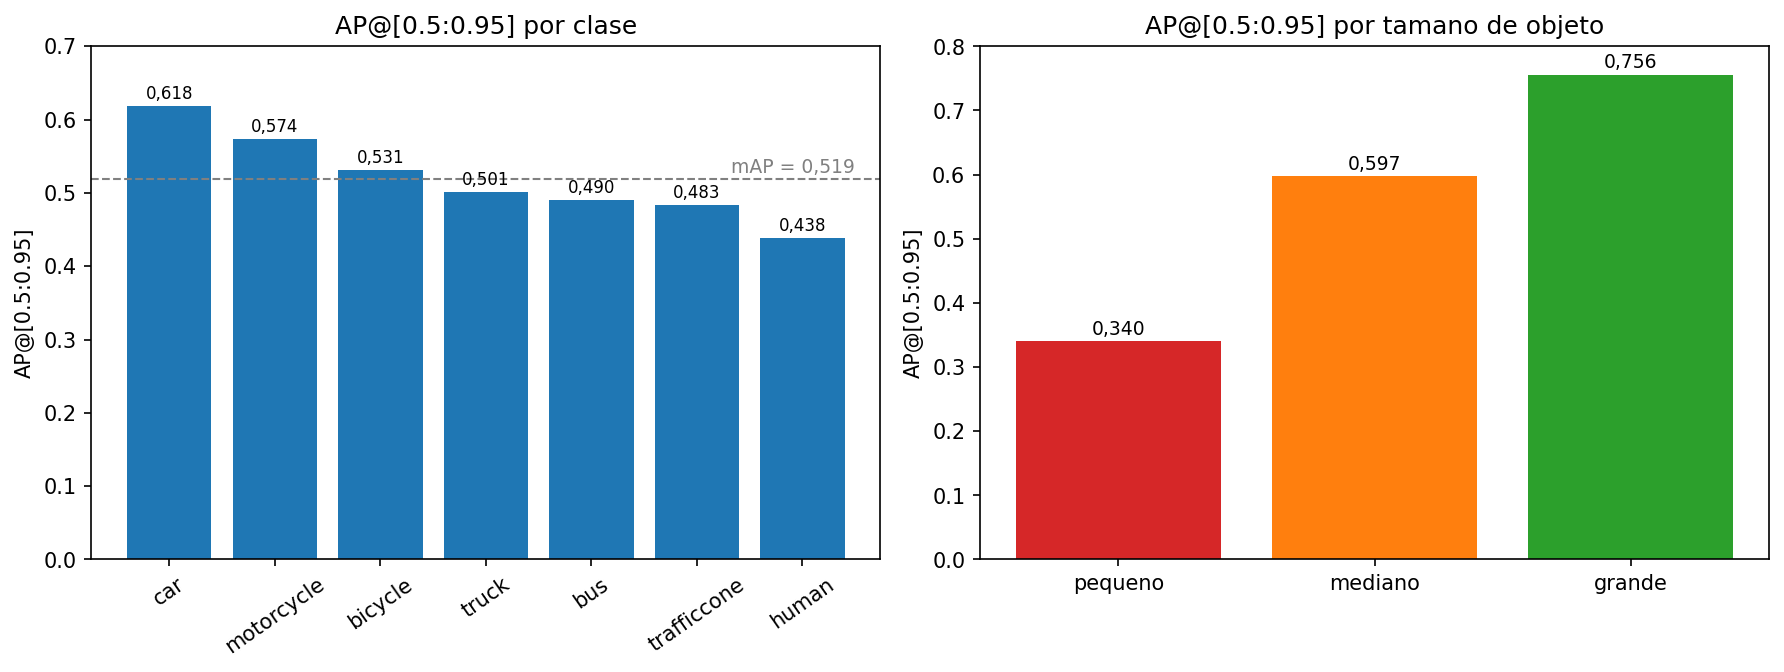
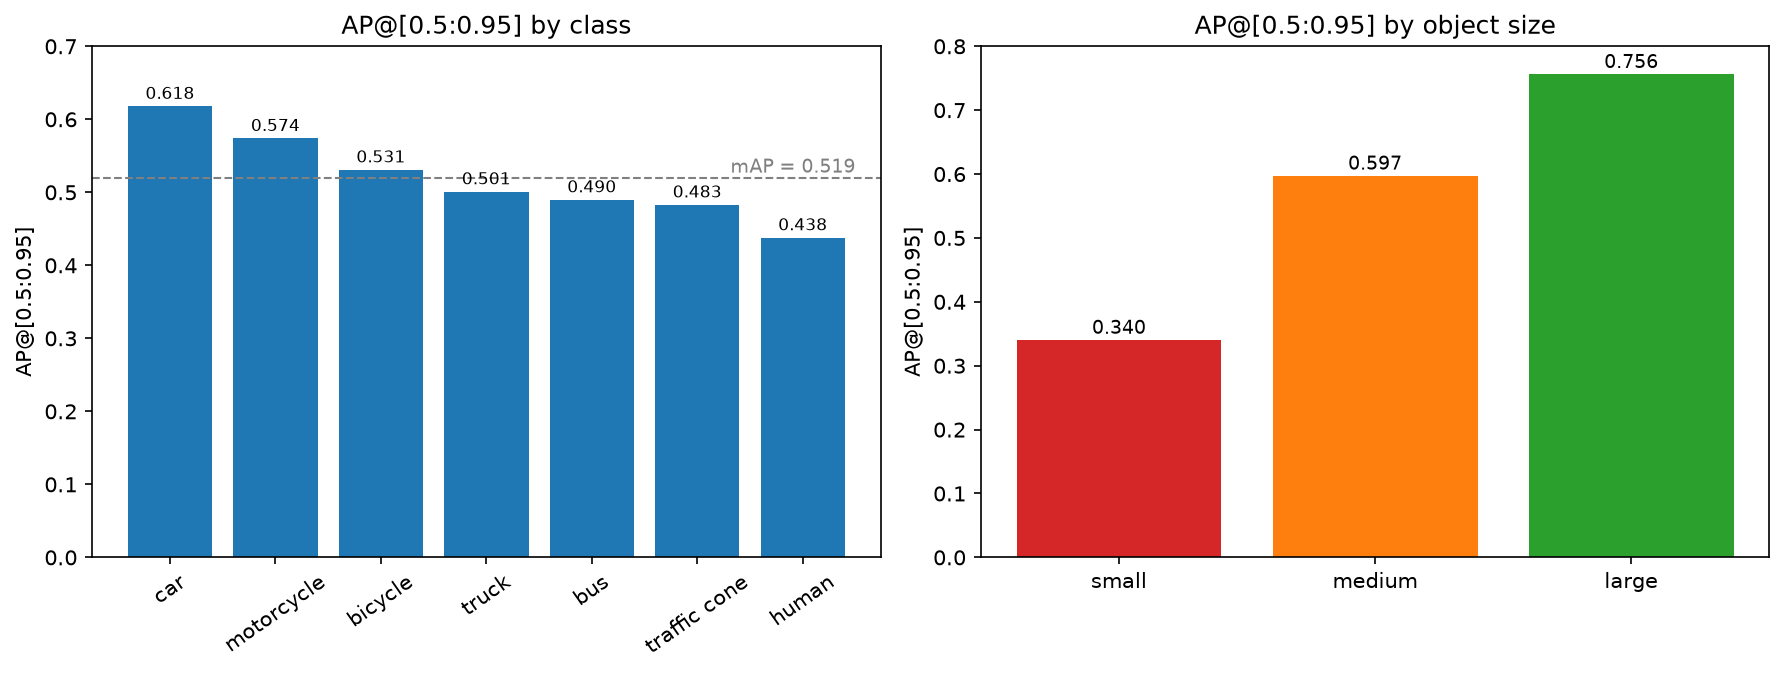
Regenerate evaluation figures in English

diff --git a/src/plot_ap_by_class_and_size.py b/src/plot_ap_by_class_and_size.py
@@ -1,43 +1,71 @@
 """
-Genera fig_ap_clase_tamano.png a partir de los valores de AP de tus tablas
-(validacion). No usa datos externos: solo los numeros que ya reportas.
-Ejecutar:  python generar_fig_ap_clase_tamano.py
-Guarda la figura en la carpeta actual; copiala luego a memoria_figs/.
+Generates the evaluation figures from the reported validation metrics.
+
+- ap_by_class_and_size.png: AP@[0.5:0.95] per class and per object size (COCO evaluation)
+- class_balance.png: number of annotated instances per class (full dataset)
+
+Run:  python src/plot_ap_by_class_and_size.py
 """
-import numpy as np
+from pathlib import Path
+
 import matplotlib.pyplot as plt
- 
-# AP@[0.5:0.95] por clase (de tu tabla de AP por clase, validacion)
-clases = ['car', 'motorcycle', 'bicycle', 'truck', 'trafficcone', 'bus', 'human']
-ap     = [0.618,  0.574,        0.531,     0.501,   0.483,         0.490, 0.438]
-orden = np.argsort(ap)[::-1]
-clases = [clases[i] for i in orden]
-ap     = [ap[i] for i in orden]
- 
-# AP@[0.5:0.95] por tamano (de tu tabla de metricas COCO)
+import numpy as np
+
+OUT = Path(__file__).resolve().parent.parent / "results"
+OUT.mkdir(exist_ok=True)
+
+# AP@[0.5:0.95] per class (validation, COCO evaluation)
+classes = ["car", "motorcycle", "bicycle", "truck", "traffic cone", "bus", "human"]
+ap = [0.618, 0.574, 0.531, 0.501, 0.483, 0.490, 0.438]
+order = np.argsort(ap)[::-1]
+classes = [classes[i] for i in order]
+ap = [ap[i] for i in order]
+
+# AP@[0.5:0.95] per object size (COCO small / medium / large)
 ap_size = [0.340, 0.597, 0.756]
- 
+
 fig, (a1, a2) = plt.subplots(1, 2, figsize=(12, 4.6))
- 
-b1 = a1.bar(clases, ap, color='#1f77b4')
-a1.set_title('AP@[0.5:0.95] por clase')
-a1.set_ylabel('AP@[0.5:0.95]')
+
+bars = a1.bar(classes, ap, color="#1f77b4")
+a1.set_title("AP@[0.5:0.95] by class")
+a1.set_ylabel("AP@[0.5:0.95]")
 a1.set_ylim(0, 0.7)
-a1.axhline(0.519, ls='--', color='gray', lw=1)
-a1.text(len(clases) - 0.5, 0.527, 'mAP = 0,519', color='gray', ha='right', fontsize=9)
-for r, v in zip(b1, ap):
-    a1.text(r.get_x() + r.get_width() / 2, v + 0.01, f'{v:.3f}'.replace('.', ','),
-            ha='center', fontsize=8)
-a1.tick_params(axis='x', rotation=35)
- 
-a2.bar(['pequeno', 'mediano', 'grande'], ap_size,
-       color=['#d62728', '#ff7f0e', '#2ca02c'])
-a2.set_title('AP@[0.5:0.95] por tamano de objeto')
-a2.set_ylabel('AP@[0.5:0.95]')
+a1.axhline(0.519, ls="--", color="gray", lw=1)
+a1.text(len(classes) - 0.5, 0.527, "mAP = 0.519", color="gray", ha="right", fontsize=9)
+for bar, value in zip(bars, ap):
+    a1.text(bar.get_x() + bar.get_width() / 2, value + 0.01, f"{value:.3f}", ha="center", fontsize=8)
+a1.tick_params(axis="x", rotation=35)
+
+a2.bar(["small", "medium", "large"], ap_size, color=["#d62728", "#ff7f0e", "#2ca02c"])
+a2.set_title("AP@[0.5:0.95] by object size")
+a2.set_ylabel("AP@[0.5:0.95]")
 a2.set_ylim(0, 0.8)
-for i, v in enumerate(ap_size):
-    a2.text(i, v + 0.01, f'{v:.3f}'.replace('.', ','), ha='center', fontsize=9)
- 
+for i, value in enumerate(ap_size):
+    a2.text(i, value + 0.01, f"{value:.3f}", ha="center", fontsize=9)
+
 plt.tight_layout()
-plt.savefig('fig_ap_clase_tamano.png', dpi=150, bbox_inches='tight')
-print('Generada fig_ap_clase_tamano.png')
+plt.savefig(OUT / "ap_by_class_and_size.png", dpi=150, bbox_inches="tight")
+plt.close(fig)
+
+# Instances per class (full dataset)
+counts = {
+    "bicycle": 11000,
+    "bus": 4613,
+    "car": 144379,
+    "human": 105189,
+    "motorcycle": 10346,
+    "traffic cone": 52155,
+    "truck": 23788,
+}
+fig, ax = plt.subplots(figsize=(10, 6))
+bars = ax.bar(list(counts), list(counts.values()), color="steelblue")
+ax.set_title("Instances per class (full dataset)")
+ax.set_ylabel("Number of instances")
+for bar, value in zip(bars, counts.values()):
+    ax.text(bar.get_x() + bar.get_width() / 2, value + 1200, f"{value:,}", ha="center", fontsize=10)
+ax.tick_params(axis="x", rotation=45)
+plt.tight_layout()
+plt.savefig(OUT / "class_balance.png", dpi=150, bbox_inches="tight")
+plt.close(fig)
+
+print(f"Figures saved to {OUT}")

diff --git a/README.md b/README.md
@@ -58,7 +58,7 @@ Strong class imbalance (car 144k instances vs bus 4.6k) — handled through stra
 
 ```
 src/track_video.py               YOLO + DeepSORT video tracking (4+1 detect/predict cycle)
-src/plot_ap_by_class_and_size.py AP analysis figure
+src/plot_ap_by_class_and_size.py Evaluation figures (AP by class/size, class balance)
 results/                         Evaluation figures
 ```
 
